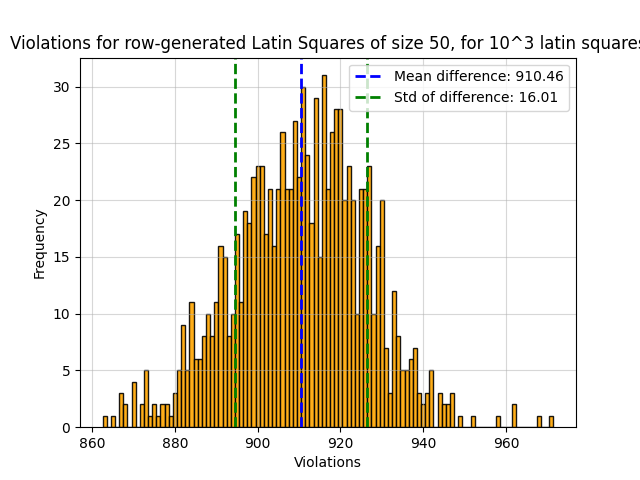
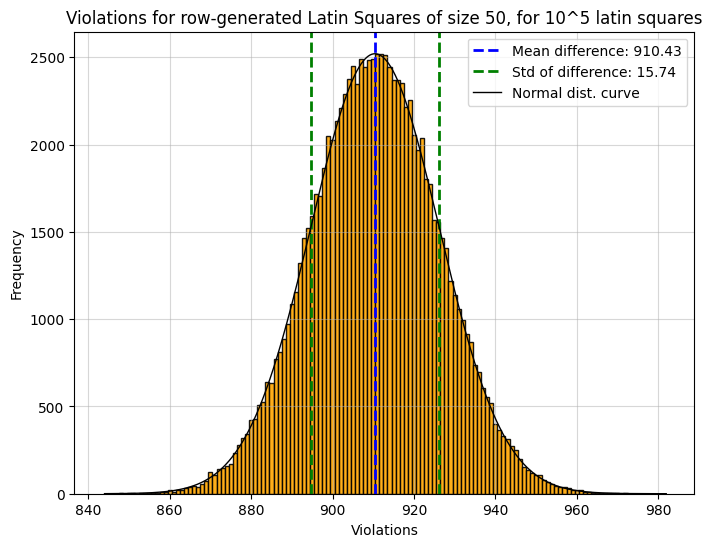
Better plots and separate plot file

diff --git a/Latin Squares/LS.py b/Latin Squares/LS.py
@@ -1,10 +1,9 @@
 import numpy as np
-import matplotlib.pyplot as plt
-from scipy.stats import norm
+from plot import plot_violations
 
-# Generate a random Latin Square of size n
-# Since each row is random, the LS is not guaranteed to be valid
-def random_LS(n):
+# Generate a random Latin Square of size n row-wise
+# I.e. each row is valid, but the columns are most likely not
+def random_rowwise_LS(n):
     LS = np.array([])
 
     for _ in range(n):
@@ -14,19 +13,25 @@ def random_LS(n):
     
     return LS.reshape(n, n)
 
+# Generate a random Latin Square of size n
+# Both rows and columns are most likely invalid
+def random_LS(n):
+    LS = np.array([[i for i in range(n)] for _ in range(n)])
+    np.random.shuffle(LS)
+    return LS.reshape(n, n)
 
-
-def check_column(n, column):
+# Check the number of violations in a Latin Square
+def check_LS(n, LS):
     violations = 0
 
     for i in range(n):
-        if i not in column:
-            violations += 1
-    
+        violations += n - len(set(LS[i]))
+        violations += n - len(set(LS[:, i]))
+
     return violations
 
-
-def check_LS(n, LS):
+# Check the number of violations in the columns of a Latin Square
+def check_columns_LS(n, LS):
     violations = 0
 
     for i in range(n):
@@ -34,7 +39,7 @@ def check_LS(n, LS):
     
     return violations
 
-
+# Main funcion to generate and check Latin Squares for violations
 def calc_violations(n_lower, n_upper, power):
     results = {}
 
@@ -42,43 +47,14 @@ def calc_violations(n_lower, n_upper, power):
         results[n] = []
 
         for _ in range(10**power):
-            ls = random_LS(n)
-            violations = check_LS(n, ls)
+            ls = random_rowwise_LS(n)
+            violations = check_columns_LS(n, ls)
             results[n].append(violations)
     
     return results
-
-
-def plot_violations(results, power, show=False):
-    for n, violations in results.items():
-        x = range(min(violations), max(violations) + 1)
-        x_axis_curve = np.linspace(min(violations), max(violations), 1000)
-        amount = "10^" + str(power)
-
-        mean_diff = np.mean(violations)
-        std_diff = np.std(violations)
-
-        freqs, _, _ = plt.hist(violations, bins=x, align='left', color='orange', alpha=0.9, edgecolor='black', linewidth=1)
         
-        plt.axvline(x=mean_diff, color='blue', linestyle='--', linewidth=2, label=f"Mean difference: {mean_diff:.2f}")
-        plt.axvline(x=(mean_diff - std_diff), color='green', linestyle='--', linewidth=2, label=f"Std of difference: {std_diff:.2f}")
-        plt.axvline(x=(mean_diff + std_diff), color='green', linestyle='--', linewidth=2)
-
-        # pdf_fitted = norm.pdf(x_axis_curve, mean_diff, std_diff)
-        # plt.plot(x_axis_curve, pdf_fitted * max(freqs) * (1 / max(pdf_fitted)), color='black', linestyle='-', linewidth=1, label="Normal dist. curve")
-        
-        plt.grid(alpha=0.5)
-        plt.xlabel("Violations")
-        plt.ylabel("Frequency")
-        plt.legend()
-        plt.savefig(f"Plots/no_title/Violations_LS_{n}.png")
-        plt.title(f"Violations for row-generated Latin Squares of size {n}, for {amount} latin squares")
-        plt.savefig(f"Plots/Violations_LS_{n}.png")
-        if show:
-            plt.show()
-
 
 if __name__ == "__main__":
     sample_size_power = 3
-    result = calc_violations(50, 50, sample_size_power)
-    plot_violations(result, sample_size_power, False)
+    result = calc_violations(4, 50, sample_size_power)
+    plot_violations(result, sample_size_power, line=True, show=True)

diff --git a/Latin Squares/plot.py b/Latin Squares/plot.py
@@ -1,0 +1,73 @@
+import numpy as np
+import matplotlib.pyplot as plt
+from scipy.stats import norm
+
+# Plot the histogram of the frequency of violations for randomly generated Latin Squares
+def plot_histogram(n, violations, power, mean_diff, std_diff, show=False):
+    x = range(min(violations), max(violations) + 1)
+    x_axis_curve = np.linspace(min(violations), max(violations), 1000)
+    amount = "10^" + str(power)
+    
+    plt.figure(figsize=(10, 6))
+    freqs, _, _ = plt.hist(violations, bins=x, align='left', color='orange', alpha=0.9, edgecolor='black', linewidth=1)
+    
+    plt.axvline(x=mean_diff, color='blue', linestyle='--', linewidth=2, label=f"Mean difference: {mean_diff:.2f}")
+    plt.axvline(x=(mean_diff - std_diff), color='green', linestyle='--', linewidth=2, label=f"Std of difference: {std_diff:.2f}")
+    plt.axvline(x=(mean_diff + std_diff), color='green', linestyle='--', linewidth=2)
+
+    pdf_fitted = norm.pdf(x_axis_curve, mean_diff, std_diff)
+    plt.plot(x_axis_curve, pdf_fitted * max(freqs) * (1 / max(pdf_fitted)), color='black', linestyle='-', linewidth=1, label="Normal dist. curve")
+    
+    plt.grid(alpha=0.5)
+    plt.xlabel("Violations")
+    plt.ylabel("Frequency")
+    plt.legend()
+    plt.savefig(f"Plots/no_title/Violations_LS_{n}.png", bbox_inches='tight')
+    plt.title(f"Violations for {amount} row-wise generated Latin Squares of size {n}")
+    plt.savefig(f"Plots/Violations_LS_{n}.png", bbox_inches='tight')
+    if show:
+        plt.show()
+
+# Plot the line graph of the mean and standard deviation of
+# the frequency of violations for randomly generated Latin Squares
+def plot_line(violations, power, show=False):
+    n = violations[:, 0]
+    means = violations[:, 1]
+    stds = violations[:, 2]
+    amount = "10^" + str(power)
+
+    lower = int(n[0])
+    upper = int(n[-1])
+
+    plt.figure(figsize=(10, 6))
+    plt.plot(n, means, color='black', linestyle='-', label="Mean difference")
+    plt.fill_between(n, means - stds, means + stds, color='orange', alpha=0.5, label="Std of difference")
+        
+    plt.grid(alpha=0.5)
+    plt.xlabel("Violations")
+    plt.ylabel("Mean frequency")
+    plt.legend()
+    plt.savefig(f"Plots/no_title/All_violations({lower}-{upper}).png", bbox_inches='tight')
+    plt.title(f"Violations for {amount} row-generated Latin Squares of size n: [{lower}, {upper}]")
+    plt.savefig(f"Plots/All_violations({lower}-{upper}).png", bbox_inches='tight')
+    if show:
+        plt.show()
+
+# Main plotting function
+def plot_violations(results, power, hist=False, line=False, show=False):
+    all_violations = np.array([])
+    
+    for n, violations in results.items():
+        mean_diff = np.mean(violations)
+        std_diff = np.std(violations)
+
+        if line:
+            data = np.array([n, mean_diff, std_diff])
+            all_violations = np.append(all_violations, data)
+
+        if hist:
+            plot_histogram(n, violations, power, mean_diff, std_diff, show)
+    
+    if line:
+        all_violations = all_violations.reshape(len(results), 3)
+        plot_line(all_violations, power, show)
